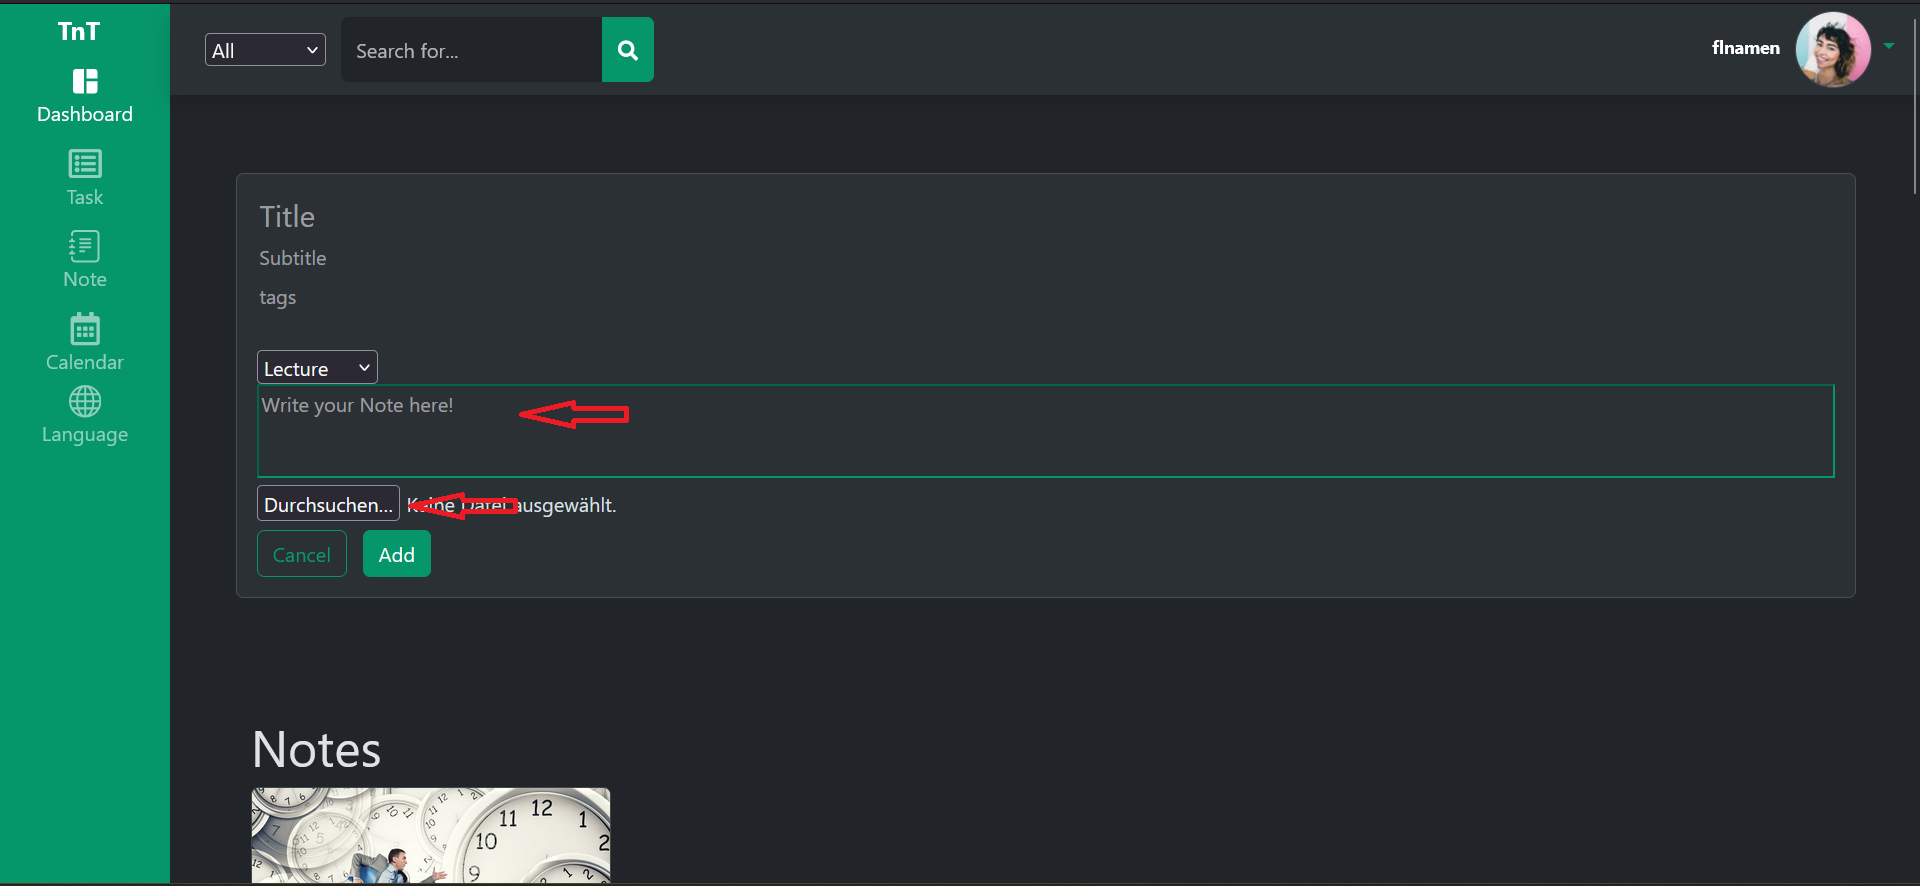
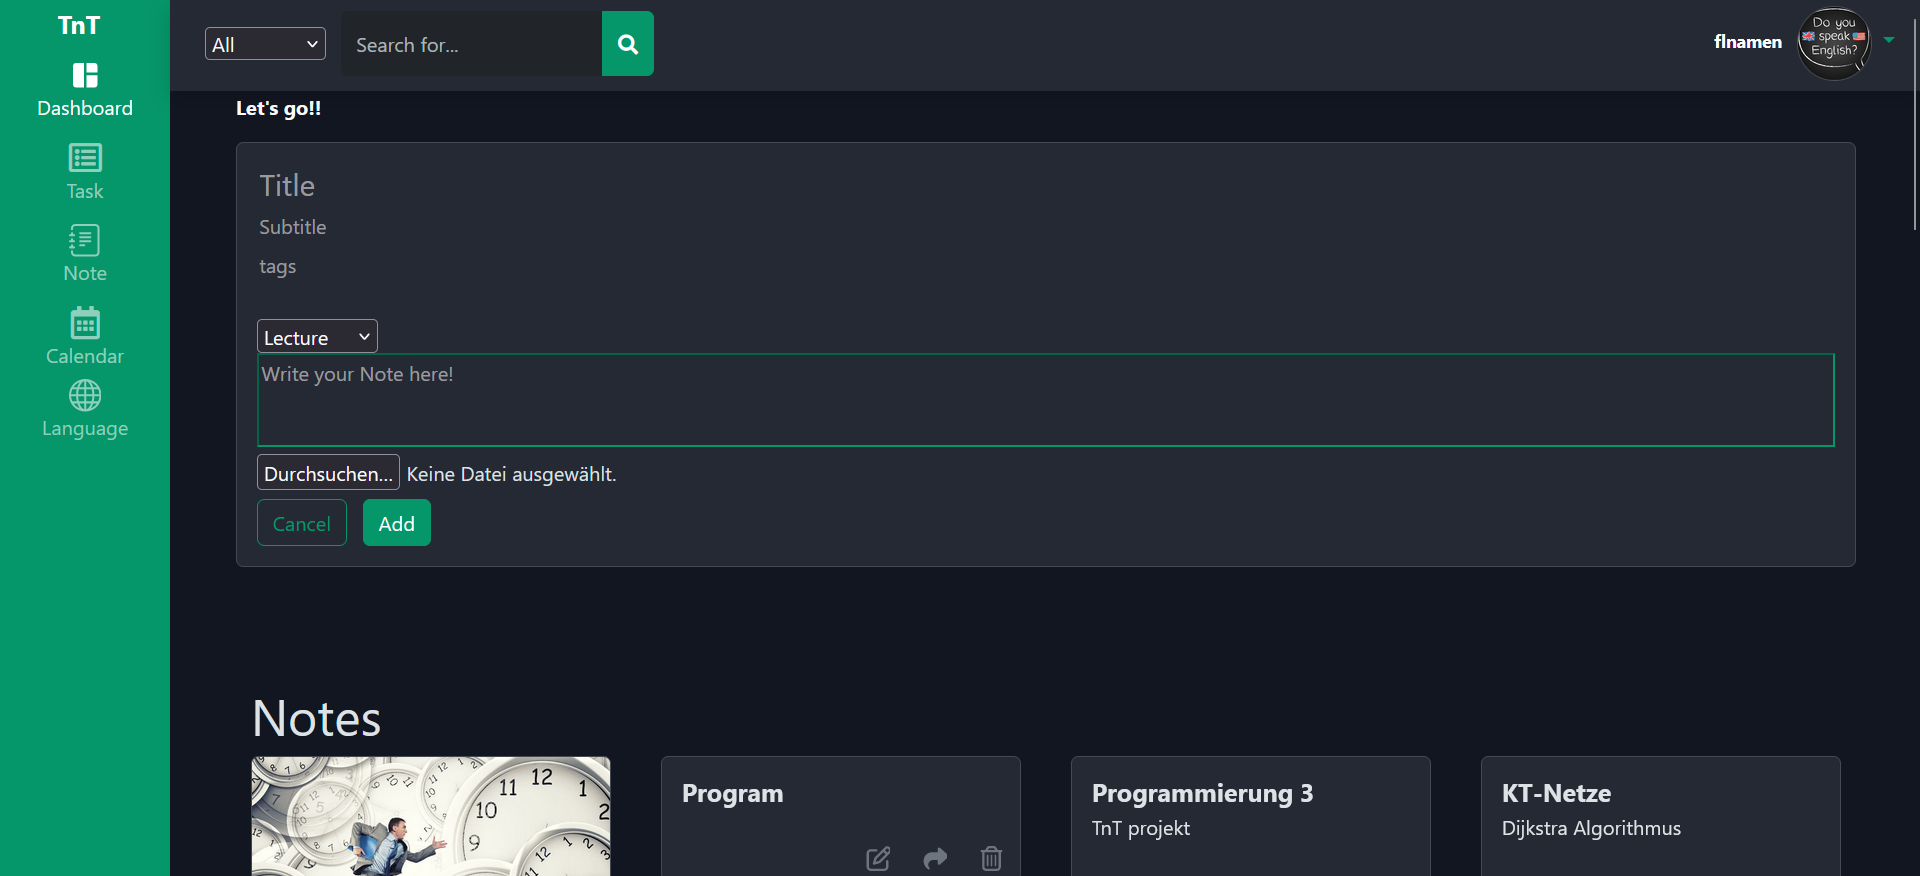
improvement of the dropdown priority and screenshot changed

diff --git a/src/main/resources/templates/index.html b/src/main/resources/templates/index.html
@@ -33,7 +33,7 @@
           <div class="col d-flex flex-column justify-content-center">
               <div class="row">
                   <div class="col d-flex justify-content-center">
-                    <img th:src="@{/images/Screenshots/Screenshot_Task.png}" style="height: 339px;width: 641.96px;" />
+                    <img th:src="@{/images/Screenshots/Screenshot_Task.png}" style="height: 339px;width: 641.96px;border: 2px solid white ;" />
                   </div>
               </div>
           </div>
@@ -55,7 +55,7 @@
           <div class="col d-flex flex-column justify-content-center">
               <div class="row">
                   <div class="col d-flex justify-content-center">
-                    <img th:src="@{/images/Screenshots/Screenshot_Note.png}" style="height: 339px;width: 641.96px;" />
+                    <img th:src="@{/images/Screenshots/Screenshot_Note.png}" style="height: 339px;width: 641.96px;border: 2px solid white ;" />
                   </div>
               </div>
           </div>
@@ -77,7 +77,7 @@
           <div class="col">
               <div class="row">
                   <div class="col d-flex justify-content-center">
-                    <img th:src="@{/images/Screenshots/Screenshot_Share.png}" style="height: 339px;width: 641.96px;" />
+                    <img th:src="@{/images/Screenshots/Screenshot_Share.png}" style="height: 339px;width: 641.96px;border: 2px solid white ;" />
                   </div>
               </div>
           </div>
@@ -99,7 +99,7 @@
           <div class="col">
               <div class="row">
                   <div class="col d-flex justify-content-center">
-                    <img th:src="@{/images/Screenshots/Screenshot_Task.png}" style="height: 339px;width: 641.96px;" />
+                    <img th:src="@{/images/Screenshots/Screenshot_Task.png}" style="height: 339px;width: 641.96px;border: 2px solid white ;" />
                   </div>
               </div>
           </div>
@@ -123,7 +123,7 @@
           </div>
           <div class="col">
               <div class="row">
-                  <div class="col d-flex justify-content-center"><img th:src="@{/images/Screenshots/Screenshot_Task.png}" style="height: 339px;width: 641.96px;" /></div>
+                  <div class="col d-flex justify-content-center"><img th:src="@{/images/Screenshots/Screenshot_Dashboard.png}" style="height: 339px;width: 641.96px;border: 2px solid white ;" /></div>
               </div>
           </div>
       </div>

diff --git a/src/main/resources/templates/todo.html b/src/main/resources/templates/todo.html
@@ -21,7 +21,7 @@
 						<div id="container_textinput">
 							<div id="textinput1" class="mdl-textfield mdl-js-textfield mdl-textfield--floating-label">
 								<input type="text" id="FormInput-1" name="taskName" class="mdl-textfield__input"
-									style="border-radius: 0px;border-bottom-color: #059669;" th:placeholder="#{taskname}">
+									style="border-radius: 0px;border-bottom-color: #059669;" th:placeholder="#{taskname}" required>
 							</div>
 							<div id="textinput2" class="mdl-textfield mdl-js-textfield mdl-textfield--floating-label">
 								<textarea id="taskContent" name="taskContent" th:placeholder="#{description}"
@@ -33,18 +33,21 @@
 								<button class="btn btn-primary datum" aria-expanded="false" data-bs-toggle="dropdown" type="button"
 									style="border-color: #059669;border-left-color: #059669;">
 									<input type="date" id="date" name="date"
-											style="background: transparent;color: var(--bs-dropdown-color);border-color: rgba(33,37,41,0);">
+											style="background: transparent;color: var(--bs-dropdown-color);border-color: rgba(33,37,41,0);" required>
 								</button>
 							</div>
 
 							<select class="btn btn-primary priorität" style="border-color: #059669;" name="priority" id="priority">
 								<option value="low" selected>
+									<div>🟩</div>
 									<span th:text="#{P1}">Priority 1</span>
 								</option>
 								<option value="medium">
+									<div>🟨</div>
 									<span th:text="#{P2}">Priority 2</span>
 								</option>
 								<option value="high">
+									<div>🟥</div>
 									<span th:text="#{P3}">Priority 3</span>
 								</option>
 							</select>
